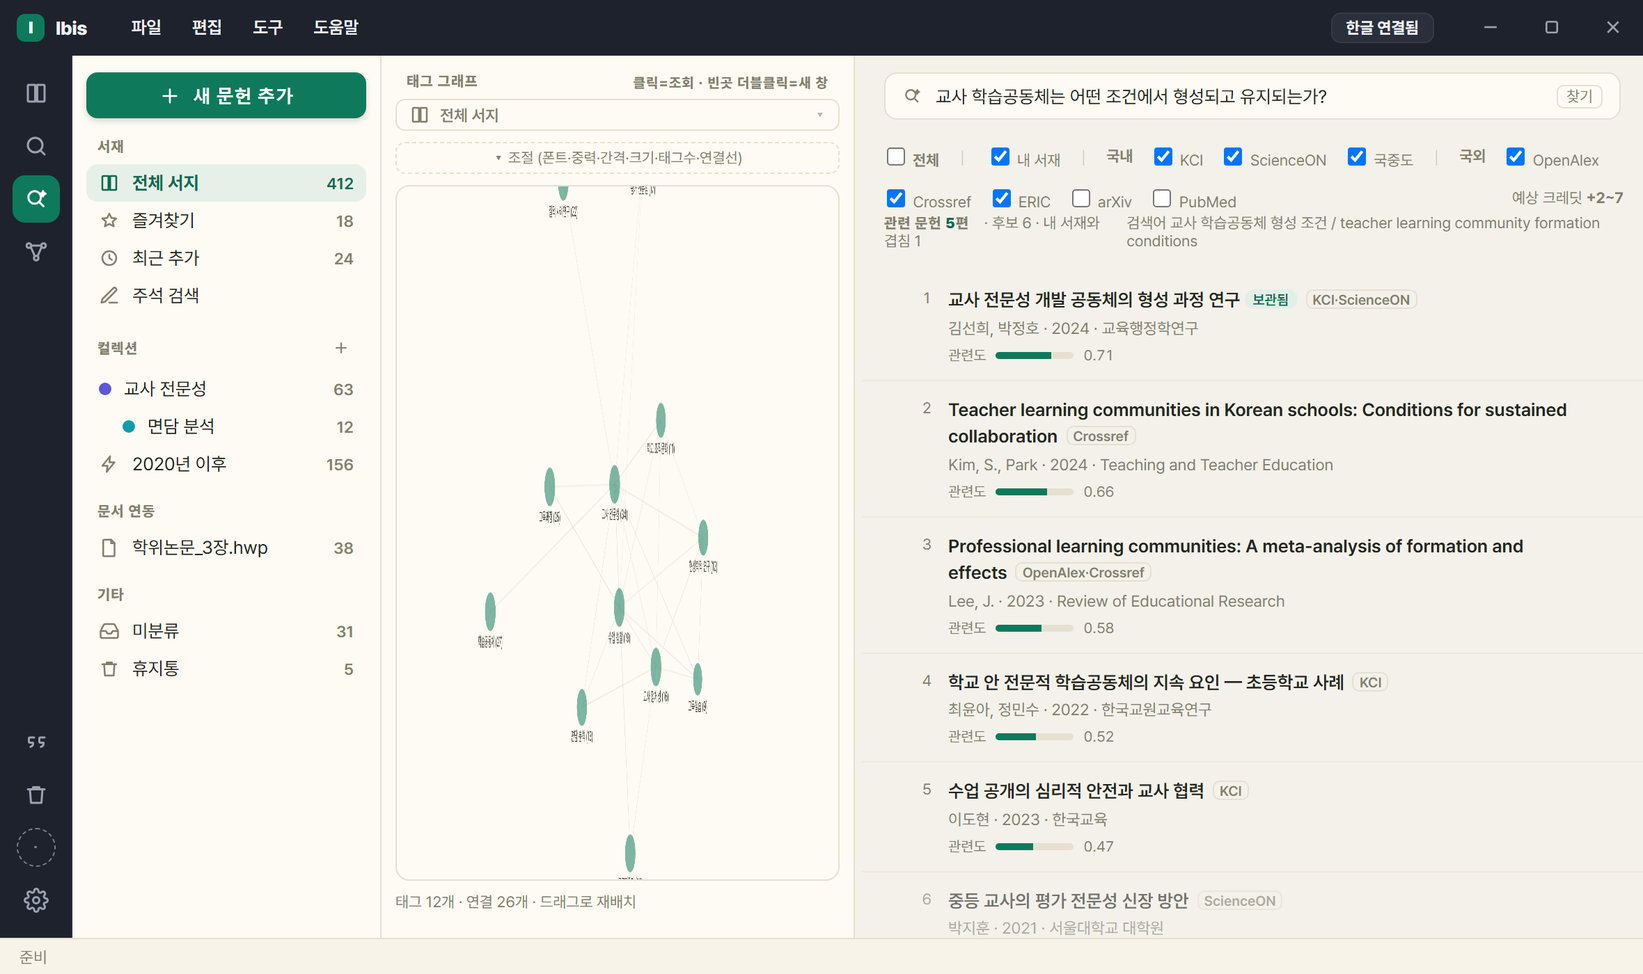
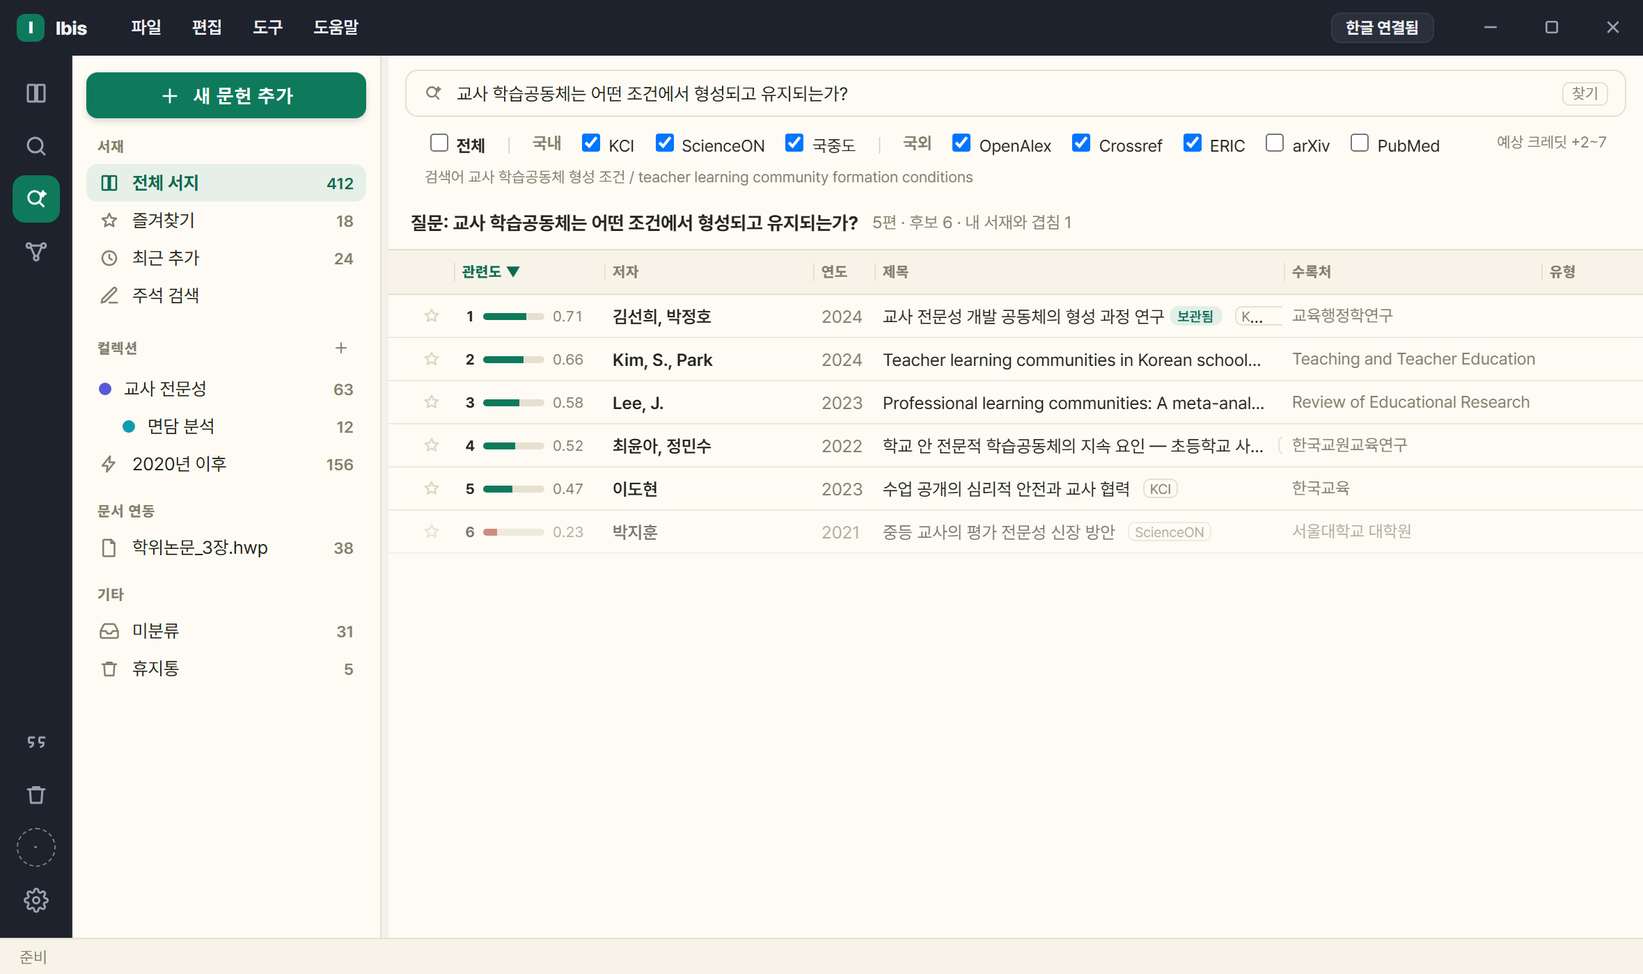
docs: 2026.9.8 반영 — 'DB 검색' → '키워드로 찾기', 질문으로 찾기 결과도 같은 표로
- 기능 이름을 현재 이름('키워드로 찾기')으로 통일하고, 두 번의 개명 이력('외부 검색'→'DB 검색'→'키워드로 찾기')은
  FAQ 한 곳에 모았다. 짝으로 설명한다 — 낱말로 찾으면 키워드로, 문장으로 물으면 질문으로
- 3.1: 질문 결과가 키워드로 찾기와 **같은 표**에 나오고 맨 왼쪽 관련도 칸(순위·막대·점수)이 질문 화면에만 붙는다.
  최근 질의·검색어·사정 고지는 표 위 한 줄. 체크 행 오른쪽 끝에 예상 크레딧
- ⚠ 체크 행은 **같은 자리에서 같은 방식**이지 같은 목록이 아니다 — 질문 8개(S2 없음)·그 판 한정 기억·기본 꺼짐
  arXiv·PubMed / 키워드 9개(S2 포함)·저장되는 기억·기본 꺼짐 arXiv·PubMed·S2. FAQ 에 그 차이를 따로 적었다
- '내 서재' 체크칸은 두 찾기 모두에서 빠졌다(보관됨 배지는 그대로). '그대로 DB 검색 조건' 같은 모호한 표현 정정
- README '주요 기능' 머리를 「두 가지 찾기 — 키워드로, 질문으로」로
- ask.png·ask-empty.png 를 새 화면(같은 표 + 관련도 열)으로 교체

diff --git a/docs/USAGE.md b/docs/USAGE.md
@@ -1,6 +1,6 @@
 # Ibis 사용 설명서
 
-한국어로 연구하는 사람을 위한 **문헌 관리 앱**. **찾기 → 원문 확보 → 읽기·AI 분석 → 정리·태그 그래프 → 동료와 나누기** 까지 한 프로그램 안에서 합니다. 아래아한글·Word 본문 인용(CWYW)도 그중 한 기능입니다. 기준 버전 **2026.9.7**.
+한국어로 연구하는 사람을 위한 **문헌 관리 앱**. **찾기 → 원문 확보 → 읽기·AI 분석 → 정리·태그 그래프 → 동료와 나누기** 까지 한 프로그램 안에서 합니다. 아래아한글·Word 본문 인용(CWYW)도 그중 한 기능입니다. 기준 버전 **2026.9.8**.
 
 - 표기: `⚙설정` · `파일`·`편집`·`도구` 메뉴 · `새 문헌 추가` 는 화면의 실제 라벨입니다.
 - 좌측 세로 아이콘 줄 = **레일**, 상단의 '○○ 모드 · 문서명' = **상태 배지**.
@@ -58,7 +58,7 @@
 | 영역 | 하는 일 |
 |---|---|
 | **타이틀바** | 메뉴(파일·편집·도구·도움말) + 우측 **연결 상태 배지**(클릭 시 문서 연결) |
-| **레일**(맨 왼쪽) | 서재 · **DB 검색** · **질문으로 찾기** · 그래프 뷰 전환(2026.9.7 부터 '외부 검색'을 **DB 검색**이라 부르고, 세 모드가 **같은 서재 사이드바**를 씁니다 — 어느 모드에서든 컬렉션을 누르면 그 뷰로 갑니다). 맨 아래에 **계정 동그라미**(로그인하면 구글 사진), 아래쪽에 **인용 편집 창** · 휴지통 · **⚙설정**(맨 아래). 레일의 참고문헌 갱신(⟳) 아이콘은 2026.9.6 에 뺐습니다 — 새로고침으로 오해돼서요. 갱신은 [4.5](#45-전체-갱신--참고문헌-갱신) 의 자리에서 합니다 |
+| **레일**(맨 왼쪽) | 서재 · **키워드로 찾기** · **질문으로 찾기** · 그래프 뷰 전환. 세 모드가 **같은 서재 사이드바**를 쓰고(어느 모드에서든 컬렉션을 누르면 그 뷰로 갑니다), 찾기 줄과 그 아래 DB 체크 행도 같은 자리입니다(2026.9.8). 맨 아래에 **계정 동그라미**(로그인하면 구글 사진), 아래쪽에 **인용 편집 창** · 휴지통 · **⚙설정**(맨 아래). 레일의 참고문헌 갱신(⟳) 아이콘은 2026.9.6 에 뺐습니다 — 새로고침으로 오해돼서요. 갱신은 [4.5](#45-전체-갱신--참고문헌-갱신) 의 자리에서 합니다 |
 | **사이드바** | 맨 위 **'새 문헌 추가'** 버튼(추가 방법 메뉴 런처) + 서재 · 컬렉션 · 스마트 컬렉션 · 문서 연동 · 기타(미분류·중복 점검·휴지통·연결 안 된 PDF) |
 | **목록** | 검색줄 + 필터 칩 + 정렬·폭 조절 가능한 문헌 표 |
 | **상세 패널** | 서지정보 · 인용 미리보기 · 첨부. 인용 삽입과 원문·AI 동작 버튼 |
@@ -114,31 +114,35 @@
 
 ### 3.1 질문으로 찾기 (2026.9.1)
 
-낱말이 아니라 **연구 질의를 문장으로** 던지면, 국내외 학술 DB 와 내 서재를 한 번에 뒤져 **관련도 순위**로 돌려줍니다. 레일 **세 번째 아이콘**입니다.
+낱말이 아니라 **연구 질의를 문장으로** 던지면, 국내외 학술 DB 를 뒤져 **관련도 순위**로 돌려줍니다. 레일 **세 번째 아이콘**입니다.
+
+결과는 **키워드로 찾기와 같은 표**에 나옵니다(2026.9.8 — 그전에는 별도 카드 목록이었습니다). 맨 왼쪽에 **관련도 칸**(순위 · 막대 · 0~1 점수)이 하나 더 붙고, 그 칸은 질문으로 찾기에서만 보입니다. 최근 질의·보낸 검색어·사정 고지는 표 바로 위 한 줄에 있습니다.
 
 ![질문으로 찾기 — 문장으로 물으면 관련도 순위로 돌려준다](images/ask.png)
 
 1. 질의를 문장으로 적습니다 — 예: `국내 교육사회학 연구에서 교육불평등을 어떻게 다뤄 왔나`.
-2. **검색 대상**을 고릅니다: `전체` │ `내 서재` │ **국내**(KCI·ScienceON·국립중앙도서관) │ **국외**(OpenAlex·Crossref·ERIC·arXiv).
+2. 찾기 줄 아래 **체크 행**에서 어디서 찾을지 고릅니다: `전체` │ **국내**(KCI·ScienceON·국립중앙도서관) │ **국외**(OpenAlex·Crossref·ERIC·arXiv·PubMed). 행 오른쪽 끝에 **예상 크레딧**(`+2~7` 처럼)이 적힙니다.
 3. 진행이 단계로 보입니다 — `검색어 만들기 → DB에서 찾기 → 관련도 매기기 → 정리`(지금 단계가 점멸).
 
 - **검색어는 AI 가 만듭니다** — 국문·영문 조합을 한 번에 짭니다. 낱말을 뽑는 규칙으로 하면 국문 질의에서 엉뚱한 것이 걸립니다.
 - **모은 것을 전부 채점합니다** — 통상 200여 건을 모아 100여 편을 순위로 보여 줍니다. 상한을 두면 정답이 순위에도 못 오르는 일이 생겨 없앴습니다.
 - **국립중앙도서관 단행본도 순위에 오릅니다** — 서지에 책소개가 없어 원래는 채점이 안 되는데, 카카오 책·알라딘에서 즉석으로 정보를 입혀 함께 매깁니다.
-- **크레딧을 씁니다**(Ibis AI 를 쓸 때) — 검색어 만들기와 채점에 들어갑니다. 남은 양은 화면에 표시됩니다.
+- **크레딧을 씁니다**(Ibis AI 를 쓸 때) — 검색어 만들기와 채점에 들어갑니다. 체크 행 오른쪽 끝에 **예상 크레딧**이 미리 뜨고(한글 질의는 검색어 생성이 붙어 `+2~7`), 남은 양은 화면에 표시됩니다.
 - **치른 결과는 증발하지 않습니다** — **최근 질의** 목록에서 누르면 **크레딧 0** 으로 그대로 되살아납니다. 외부 문헌 행을 누르면 상세가 열리고 거기서 내 서재에 담습니다.
 
-- **질의에 적은 조건을 읽습니다 (2026.9.3)** — `2015년 이후`·`학위논문만`·`OO 저자`·`OO학회지`·`양적 연구는 빼고` 처럼 문장 안에 넣은 기간·유형·저자·학술지·제외·선호가 그대로 DB 검색 조건이 됩니다. 따로 칸을 채우지 않아도 됩니다.
+- **질의에 적은 조건을 읽습니다 (2026.9.3)** — `2015년 이후`·`학위논문만`·`OO 저자`·`OO학회지`·`양적 연구는 빼고` 처럼 문장 안에 넣은 기간·유형·저자·학술지·제외·선호가 그대로 DB 에 보내는 검색 조건이 됩니다. 따로 칸을 채우지 않아도 됩니다.
 
-- **사이드바를 누르면 질문 화면을 닫고 그 뷰로 갑니다 (2026.9.6)** — DB 검색 모드와 같은 동작입니다. 결과는 남아 있어 레일의 [질문으로 찾기]로 돌아오면 그대로이고, 결과 행을 컬렉션에 끌어 넣는 것도 그대로입니다. Ibis AI 를 켠 직후에도 '⚙설정에서 켜 주세요'가 뜨던 문제도 함께 고쳤습니다.
+- **사이드바를 누르면 질문 화면을 닫고 그 뷰로 갑니다 (2026.9.6)** — 키워드로 찾기와 같은 동작입니다. 결과는 남아 있어 레일의 [질문으로 찾기]로 돌아오면 그대로이고, 결과 행을 컬렉션에 끌어 넣는 것도 그대로입니다. Ibis AI 를 켠 직후에도 '⚙설정에서 켜 주세요'가 뜨던 문제도 함께 고쳤습니다.
 - **여러 개 골라 한 번에 (2026.9.5)** — Ctrl 클릭으로 더하거나 빼고 Shift 클릭으로 범위를 고른 뒤 끌면 고른 전부가 컬렉션으로 갑니다(서재 목록과 같은 규칙).
 - **'많이 인용된·대표적인·고전적인' 조건이 순위에 실제로 반영됩니다 (2026.9.5)** — 해외 DB(OpenAlex·Crossref)의 피인용 수를 새로 담고(상세의 '피인용(해외 DB)' 줄) KCI 피인용과 따로 정규화합니다. 관련도가 분명히 낮은 문헌이 피인용만으로 앞서지는 않습니다.
 
-> 낱말로 좁혀 찾는 것은 **DB 검색**([3.2](#32-검색-소스))입니다. 질문으로 찾기는 *무엇을 찾아야 할지부터 넓게 훑을 때* 씁니다.
+> 낱말로 좁혀 찾는 것은 **키워드로 찾기**([3.2](#32-검색-소스))입니다. 질문으로 찾기는 *무엇을 찾아야 할지부터 넓게 훑을 때* 씁니다. 둘은 짝입니다 — **낱말로 찾으면 키워드로 찾기, 문장으로 물으면 질문으로 찾기**.
+>
+> 두 찾기는 **같은 자리(찾기 줄 아래)에서 같은 방식**으로 DB 를 고릅니다 — `전체 │ 국내 … │ 국외 …`, '국내'·'국외' 글자를 누르면 묶음이 통째로 켜지고 꺼지며 조합은 자유입니다. 다만 **목록과 기억은 다릅니다**: 키워드로 찾기는 9개(S2 포함)를 `localStorage` 에 기억하고 기본 꺼짐이 arXiv·PubMed·S2, 질문으로 찾기는 8개(**S2 없음** — 질의 라우팅이 그 DB 를 쓰지 않습니다)에 기억은 그 판 한정, 기본 꺼짐이 arXiv·PubMed 입니다. '내 서재' 칸은 양쪽 다 없습니다.
 
 ### 3.2 검색 소스
 
-레일의 **DB 검색**(2026.9.7 부터의 이름 — 그전에는 '외부 검색')입니다. 어디서 찾을지는 **검색줄 바로 아래 체크 행**에서 고릅니다(질문으로 찾기와 같은 모양) — `전체 │ 국내 KCI·ScienceON·국중도 │ 국외 OpenAlex·Crossref·ERIC·arXiv·PubMed·S2`(arXiv·PubMed·S2 는 주제 범위가 좁아 **기본 꺼짐**). **'국내'·'국외' 글자를 누르면 그 묶음이 통째로 켜지고 꺼지며**, 원하는 대로 섞어도 됩니다(KCI+ERIC 만 같은 조합도 가능). 고른 조합은 기억되고, 오른쪽 끝에 `○○에서 검색` 이라고 지금 조합이 적힙니다.
+레일 **두 번째 아이콘 [키워드로 찾기]** 입니다. 어디서 찾을지는 **찾기 줄 바로 아래 체크 행**에서 고릅니다 — `전체 │ 국내 KCI·ScienceON·국중도 │ 국외 OpenAlex·Crossref·ERIC·arXiv·PubMed·S2`(arXiv·PubMed·S2 는 주제 범위가 좁아 **기본 꺼짐**). **'국내'·'국외' 글자를 누르면 그 묶음이 통째로 켜지고 꺼지며**, 원하는 대로 섞어도 됩니다(KCI+ERIC 만 같은 조합도 가능). 고른 조합은 기억되고, 행 오른쪽 끝에 `○○에서 찾기` 라고 지금 조합이 적힙니다(고른 것이 없으면 'DB 를 하나 이상 고르세요').
 
 소스는 **국내 3종 · 해외 6종** 이며, 둘 이상을 켜면 병렬로 질의한 뒤 중복을 합칩니다.
 
@@ -153,13 +157,13 @@
 | 해외 | arXiv | 프리프린트 | 불필요 |
 | 해외 | Semantic Scholar(S2) | CS·융합 | 불필요 |
 | 해외 | **PubMed** (2026.9.5) | 의학·보건·간호(미국 국립의학도서관) — 초록·MeSH 주제어 포함, 총건수 표시. 주제 범위가 좁아 **해외 통합·질문으로 찾기에서는 기본 꺼짐** | 불필요 |
-| — | 내 서지 | 보관한 문헌 — 2026.9.7 부터 DB 검색의 체크 항목이 아닙니다. 내 문헌은 **서재 모드의 검색줄**에서 찾습니다([3.8](#38-내-서지-전문검색fts)) | — |
+| — | 내 서지 | 보관한 문헌 — 체크 항목이 아닙니다(2026.9.7~9.8 에 두 찾기 모두에서 빠졌습니다). 내 문헌은 **서재 모드의 찾기 줄**에서 찾고([3.8](#38-내-서지-전문검색fts)), 찾은 결과가 이미 서재에 있으면 행에 **'보관됨'** 배지가 붙습니다 | — |
 
 - **KCI 와 국립중앙도서관은 앱 내장 키로 동작합니다** — 사용자가 발급받을 것이 없고 설정에 입력 칸도 없으며, 설치 직후부터 소스 목록에 보입니다.
 - **ScienceON 만** 사용자 발급 키(Client ID·인증키·등록 MAC)가 필요합니다([9.1](#91-api-키이메일-발급)). 없어도 나머지 소스로 앱은 온전히 동작합니다.
 - 학술논문은 KCI 가, 그 밖의 국내 발행물은 국립중앙도서관이 맡습니다. 유형을 지정하지 않은 국립중앙도서관 검색은 소장자료 네 갈래를 병렬로 훑습니다.
 - RISS 는 검색 소스가 아니라 **원문 확보 경로 전용**입니다([7절](#7-원문-확보pdf-뷰어)).
-- 검색: **체크 행에서 DB 고르기 → 검색어 입력 → Enter** → 페이지당 20건. 체크를 바꾸면 목록이 새 조합으로 바뀌고, 실제 검색은 Enter 로 합니다(질문으로 찾기와 같은 결).
+- 찾기: **체크 행에서 DB 고르기 → 낱말 입력 → Enter** → 페이지당 20건. 체크를 바꾸면 목록이 새 조합으로 바뀌고, 실제 검색은 Enter 로 합니다(질문으로 찾기와 같은 결).
 
 **열람 상한** — 소스가 내주는 범위에 한계가 있습니다.
 
@@ -169,7 +173,7 @@
 
 **총건수 표시** — 목록 머리에 `20건 (총 465건)`, 상태줄에 `국립중앙도서관 · 총 332건 중 20건` 처럼 나옵니다. 총건수를 알려 주지 않는 소스(Crossref·OpenAlex·S2·arXiv·ERIC)는 미상으로 두고 숫자를 적지 않습니다.
 
-![DB 검색 — 검색줄 아래 DB 선택 행, 결과에 출처 배지](images/search.png)
+![키워드로 찾기 — 찾기 줄 아래 DB 선택 행, 결과에 출처 배지](images/search.png)
 
 ### 3.3 여러 DB 를 한 번에(병렬 + 중복 병합)
 

diff --git a/docs/FAQ.md b/docs/FAQ.md
@@ -1,6 +1,6 @@
 # Ibis FAQ
 
-한국 연구자를 위한 서지·인용 관리 앱 **Ibis** 자주 묻는 질문. 기준 버전 **2026.9.7**.
+한국 연구자를 위한 서지·인용 관리 앱 **Ibis** 자주 묻는 질문. 기준 버전 **2026.9.8**.
 
 - **국내 학술 검색 → 원문 확보 → AI 분석 → 태그 그래프**까지 한 프로그램에서 끝냅니다.
 - 한글(HWP)·Word 본문 인용 삽입(CWYW)도 그중 한 기능입니다.
@@ -226,24 +226,30 @@
 **Q. 무엇을 찾아야 할지부터 막막할 때는요? (2026.9.1)**
 
 - 레일 **세 번째 아이콘 [질문으로 찾기]** — 낱말이 아니라 **연구 질의를 문장으로** 던지면 국내외 DB 와 내 서재를 한 번에 뒤져 **관련도 순위**로 보여 줍니다.
-- 검색 대상을 고릅니다: `전체` │ `내 서재` │ 국내(KCI·ScienceON·국립중앙도서관) │ 국외(OpenAlex·Crossref·ERIC·arXiv).
+- 찾기 줄 아래 **체크 행**에서 어디서 찾을지 고릅니다: `전체` │ 국내(KCI·ScienceON·국립중앙도서관) │ 국외(OpenAlex·Crossref·ERIC·arXiv·PubMed). 행 오른쪽 끝에 예상 크레딧이 적힙니다.
+- 결과는 **키워드로 찾기와 같은 표**에 나옵니다(2026.9.8) — 맨 왼쪽 관련도 칸(순위·막대·점수)만 질문으로 찾기에서 더 보입니다.
 - **검색어는 AI 가 국문·영문 조합으로 만들고**, 모은 것(통상 200여 건)을 **전부 채점**해 100여 편을 보여 줍니다.
 - 국립중앙도서관 **단행본도 순위에 오릅니다** — 책소개가 없으면 카카오 책·알라딘에서 입혀 채점합니다.
 - **치른 크레딧이 아깝지 않게** — [최근 질의] 에서 누르면 **크레딧 0** 으로 결과가 되살아납니다.
-- **질의에 적은 조건을 읽습니다 (2026.9.3)** — `2015년 이후`·`학위논문만`·`OO 저자`·`OO학회지`·`양적 연구는 빼고` 처럼 문장 안에 넣은 기간·유형·저자·학술지·제외·선호가 그대로 DB 검색 조건이 됩니다.
+- **질의에 적은 조건을 읽습니다 (2026.9.3)** — `2015년 이후`·`학위논문만`·`OO 저자`·`OO학회지`·`양적 연구는 빼고` 처럼 문장 안에 넣은 기간·유형·저자·학술지·제외·선호가 그대로 DB 에 보내는 검색 조건이 됩니다.
 - **여러 개 골라 한 번에 컬렉션으로 (2026.9.5)** — Ctrl·Shift 클릭으로 고른 뒤 끌면 전부 갑니다. '많이 인용된·대표적인' 같은 조건도 해외 DB 피인용 수로 순위에 실제 반영됩니다.
-- **사이드바를 누르면 질문 화면을 닫고 그 뷰로 갑니다(2026.9.6)** — DB 검색과 같습니다. 결과는 남아 있어 레일 아이콘으로 돌아오면 그대로입니다.
-- 낱말로 좁혀 찾는 것은 **DB 검색**입니다. 둘은 쓰임이 다릅니다.
+- **사이드바를 누르면 질문 화면을 닫고 그 뷰로 갑니다(2026.9.6)** — 키워드로 찾기와 같습니다. 결과는 남아 있어 레일 아이콘으로 돌아오면 그대로입니다.
+- 낱말로 좁혀 찾는 것은 **키워드로 찾기**입니다. 짝으로 기억하세요 — **낱말로 찾으면 키워드로, 문장으로 물으면 질문으로**.
 
-**Q. '외부 검색' 이 안 보여요. (2026.9.7)**
+**Q. '외부 검색'·'DB 검색' 이 안 보여요.**
 
-- 이름이 **DB 검색** 으로 바뀌었습니다(레일 두 번째 아이콘). 하는 일은 같습니다.
-- 사이드바도 바뀌었습니다 — 예전에는 이 모드에서 사이드바가 소스 목록이었는데, 이제 **세 모드(서재·DB 검색·질문으로 찾기)가 같은 서재 사이드바**를 씁니다. 어디서 찾을지는 **검색줄 아래 체크 행**에서 고르고, 사이드바의 컬렉션을 누르면 그 뷰로 갑니다.
+- 지금 이름은 **키워드로 찾기** 입니다(레일 두 번째 아이콘). '외부 검색'(~2026.9.6) → 'DB 검색'(2026.9.7) → **'키워드로 찾기'**(2026.9.8) 로 이름만 바뀌었고 하는 일은 같습니다. **질문으로 찾기**와 짝을 맞춘 이름입니다 — 낱말로 찾으면 키워드로, 문장으로 물으면 질문으로.
+- 화면도 바뀌었습니다 — 예전에는 이 모드에서 사이드바가 소스 목록이었는데, 이제 **세 모드(서재·키워드로 찾기·질문으로 찾기)가 같은 서재 사이드바**를 쓰고 **찾기 줄과 DB 체크 행도 같은 자리**입니다. 사이드바의 컬렉션을 누르면 그 뷰로 갑니다.
+- 질문으로 찾기의 결과도 이제 **같은 표**에 나옵니다(2026.9.8) — 맨 왼쪽 관련도 칸만 거기서 더 보입니다.
+
+**Q. 두 찾기의 DB 목록이 서로 다릅니다.**
+
+- 맞습니다. 두 찾기는 **같은 자리(찾기 줄 아래)에서 같은 방식**으로 DB 를 고릅니다 — `전체 │ 국내 … │ 국외 …`, '국내'·'국외' 글자를 누르면 묶음이 통째로 켜지고 꺼지며 조합은 자유입니다. 다만 **목록과 기억은 다릅니다**: 키워드로 찾기는 9개(S2 포함)를 `localStorage` 에 기억하고 기본 꺼짐이 arXiv·PubMed·S2, 질문으로 찾기는 8개(**S2 없음** — 질의 라우팅이 그 DB 를 쓰지 않습니다)에 기억은 그 판 한정, 기본 꺼짐이 arXiv·PubMed 입니다. '내 서재' 칸은 양쪽 다 없습니다.
 
 **Q. 어떤 검색 소스를 쓸 수 있나요?**
 
 - **9종** — 국내: KCI · ScienceON · 국립중앙도서관 / 해외: OpenAlex · Crossref · ERIC · arXiv · Semantic Scholar · **PubMed**(2026.9.5).
-- PubMed 는 미국 국립의학도서관의 의학·보건·간호 DB(초록·MeSH 주제어 포함). 주제 범위가 좁아 **해외 통합·질문으로 찾기에서는 arXiv 처럼 기본 꺼짐**이고 필요할 때 켭니다.
+- PubMed 는 미국 국립의학도서관의 의학·보건·간호 DB(초록·MeSH 주제어 포함). 주제 범위가 좁아 **arXiv 처럼 기본 꺼짐**이고 필요할 때 켭니다(S2 도 키워드로 찾기에서 기본 꺼짐).
 - 어디서 찾을지는 **검색줄 아래 체크 행**에서 고릅니다(2026.9.7) — `전체 │ 국내 │ 국외`. '국내'·'국외' 글자를 누르면 묶음이 통째로 켜지고, 원하는 대로 섞어도 됩니다. 둘 이상이면 병렬 질의 후 중복 병합하고, 고른 조합은 기억됩니다.
 - ERIC 은 미국 교육부 IES 가 운영하는 교육학 DB(저널논문·문서/보고서), 키 불필요.
 - ScienceON 을 뺀 8종은 설치 직후부터 바로 보입니다.

diff --git a/README.md b/README.md
@@ -51,9 +51,9 @@
 자세한 흐름은 **[사용 설명서(USAGE)](docs/USAGE.md)**, 막히면 **[FAQ·문제 해결](docs/FAQ.md)**을 보세요.
 
 ## 주요 기능
-**질문으로 찾기** (2026.9.1)
-- 낱말이 아니라 **연구 질의를 문장으로** 던지면 국내외 학술 DB 와 내 서재를 한 번에 뒤져 **관련도 순위**로 돌려줍니다(레일 세 번째)
-- 검색 대상 선택: `전체` │ `내 서재` │ 국내(KCI·ScienceON·국립중앙도서관) │ 국외(OpenAlex·Crossref·ERIC·arXiv)
+**두 가지 찾기 — 키워드로, 질문으로**
+- **키워드로 찾기** — 낱말로 좁혀 찾습니다(레일 두 번째). 찾기 줄 아래 체크 행에서 DB 를 골라 여러 곳을 한 번에 질의하고 중복을 합칩니다
+- **질문으로 찾기** — 낱말이 아니라 **연구 질의를 문장으로** 던지면 국내외 학술 DB 를 뒤져 **관련도 순위**로 돌려줍니다(레일 세 번째). 결과는 키워드로 찾기와 **같은 표**에 나오고, 관련도 칸이 하나 더 붙습니다
 - **검색어는 AI 가 국문·영문 조합으로** 만들고, 모은 것(통상 200여 건)을 **전부 채점**해 100여 편을 보여 줍니다
 - 국립중앙도서관 **단행본도 순위에** 오릅니다 — 책소개가 없으면 카카오 책·알라딘에서 입혀 채점합니다
 - 질의에 적은 **기간·유형·저자·학술지·제외 조건까지 읽습니다**(2026.9.3) — `2015년 이후 학위논문만` 처럼 문장 안에 넣으면 그대로 검색 조건이 됩니다
